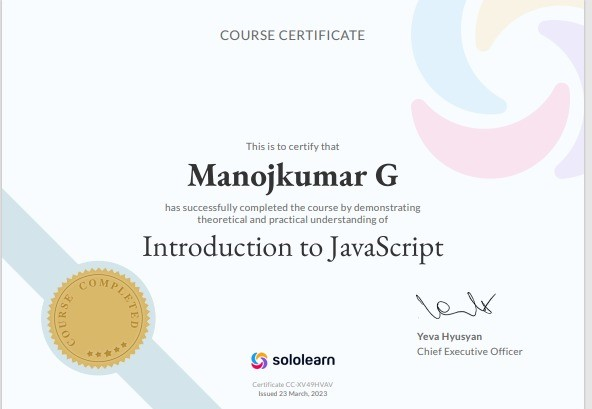
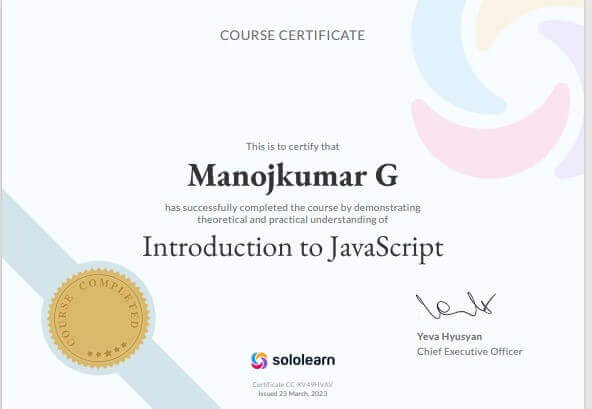
optimized images

diff --git a/index.html b/index.html
@@ -193,7 +193,7 @@
         </div>
         <div class="feature-wrapper">
           <div class="feature-container">
-            <img src="./assets/image/more projectss.png" alt="" />
+            <img src="./assets/image/more projectss.jpg" alt="" />
             <div class="link-icon">
               <i class="fa-solid fa-link"
                 ><a
